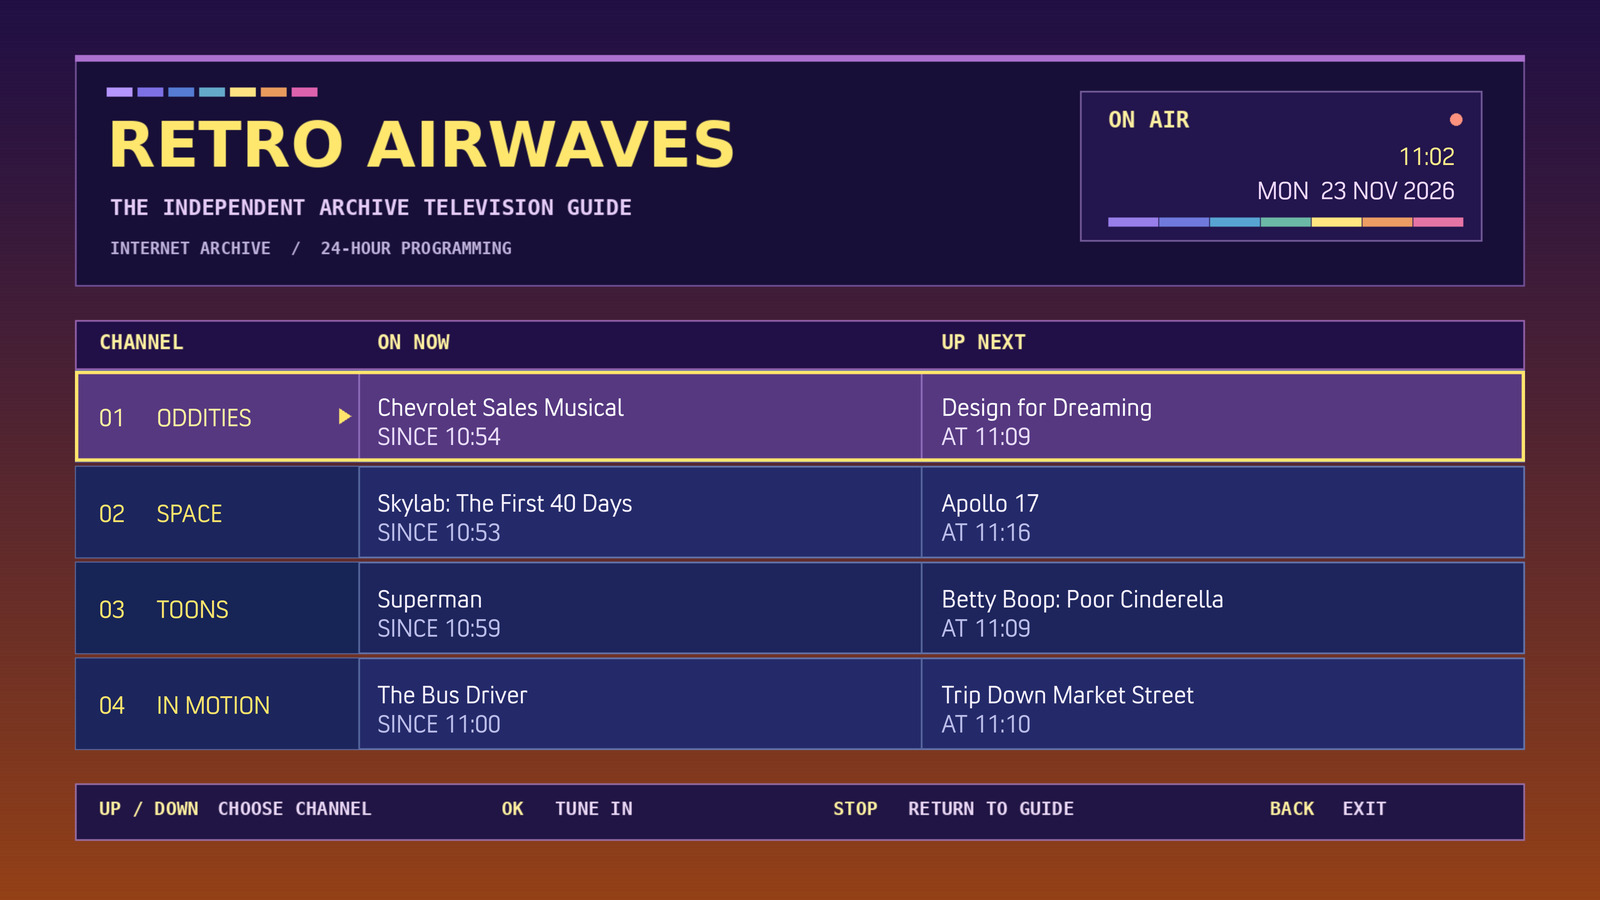
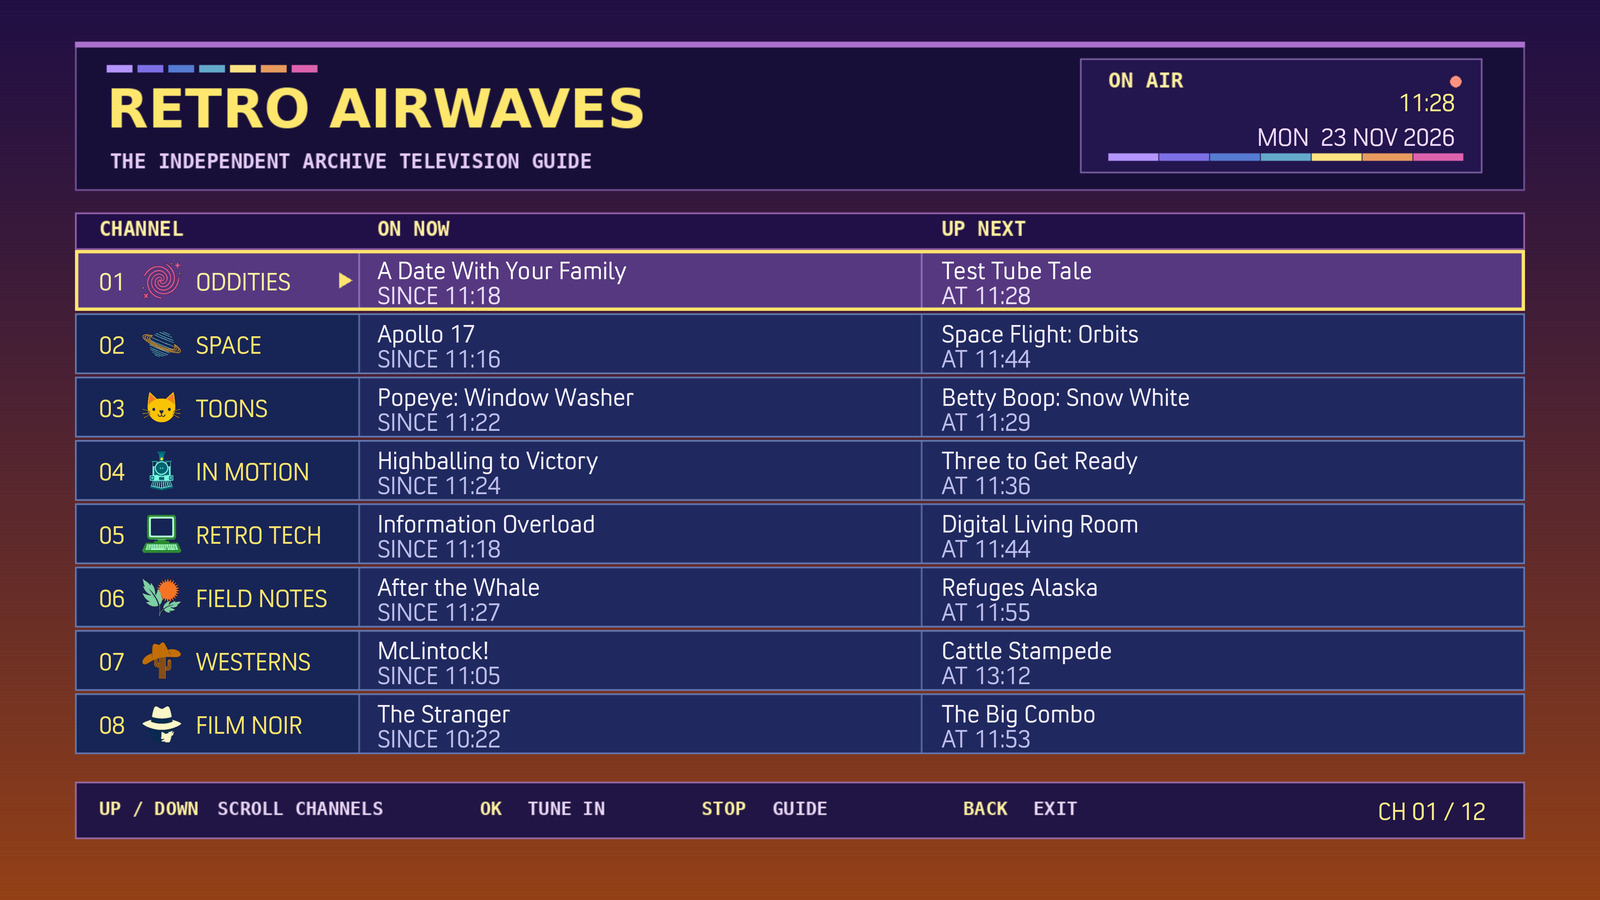
Release Retro Airwaves v1.2.0 for Kodi
- Add twelve scheduled channels and Wikimedia Commons streams.
- Fit eight rows in the guide, with original H3-generated badges and scroll screenshots.

diff --git a/script.retro.airwaves/resources/guide.py b/script.retro.airwaves/resources/guide.py
@@ -9,13 +9,23 @@ from resources.schedule import tune
 CHANNELS = 9000
 BACK_ACTIONS = {9, 10, 92}  # Previous menu, parent directory, navigation back.
 ADDON_DIR = str(Path(__file__).resolve().parents[1])
+ICON_DIR = Path(ADDON_DIR) / 'resources/skins/default/media/channels'
 
 
 class Guide(xbmcgui.WindowXML):
     def onInit(self):
         self.window_id = xbmcgui.getCurrentWindowId()
         self.rows = self.getControl(CHANNELS)
+        self.entries = []
+        self.starts = [None] * len(self.channels)
+        for number, channel in enumerate(self.channels, 1):
+            item = xbmcgui.ListItem(label=channel['name'].upper())
+            item.setProperty('Number', f'{number:02d}')
+            item.setArt({'thumb': str(ICON_DIR / f"{channel['icon']}.png")})
+            self.entries.append(item)
         self.refresh()
+        self.rows.reset()
+        self.rows.addItems(self.entries)
         self.setFocusId(CHANNELS)
         self.rows.selectItem(self.previous)
         self.ready = True
@@ -25,23 +35,16 @@ class Guide(xbmcgui.WindowXML):
         stamp = datetime.fromtimestamp(now)
         self.getControl(9010).setLabel(stamp.strftime('%H:%M'))
         self.getControl(9011).setLabel(stamp.strftime('%a  %d %b %Y').upper())
-        slots = [tune(channel, now) for channel in self.channels]
-        starts = tuple(round(slot.starts_at, 3) for slot in slots)
-        if starts == self.starts:
-            return
-        selected = self.rows.getSelectedPosition() if self.starts else self.previous
-        self.starts = starts
-        entries = []
-        for number, (channel, slot) in enumerate(zip(self.channels, slots), 1):
-            item = xbmcgui.ListItem(label=channel['name'].upper(), label2=slot.program['title'], offscreen=True)
-            item.setProperty('Number', f'{number:02d}')
+        for index, (channel, item) in enumerate(zip(self.channels, self.entries)):
+            slot = tune(channel, now)
+            start = round(slot.starts_at, 3)
+            if start == self.starts[index]:
+                continue
+            self.starts[index] = start
+            item.setLabel2(slot.program['title'])
             item.setProperty('Since', datetime.fromtimestamp(slot.starts_at).strftime('%H:%M'))
             item.setProperty('UpNext', slot.next_program['title'])
             item.setProperty('NextAt', datetime.fromtimestamp(slot.ends_at).strftime('%H:%M'))
-            entries.append(item)
-        self.rows.reset()
-        self.rows.addItems(entries)
-        self.rows.selectItem(max(0, selected))
 
     def onClick(self, control_id):
         if control_id == CHANNELS:
@@ -60,7 +63,6 @@ def select_channel(channels, previous, monitor):
     window = Guide('Airwaves.xml', ADDON_DIR, 'default', '1080i')
     window.channels = channels
     window.previous = previous
-    window.starts = ()
     window.ready = False
     window.selected = None
     window.show()

diff --git a/check_schedule.py b/check_schedule.py
@@ -25,6 +25,14 @@ def main():
             assert just_after.program == next_program and abs(just_after.starts_at - cut) < 0.001
             anchor = cut
         assert tune(channel, EPOCH - channel['phase'] - 0.25).program == programs[-1]
+    urls = [media_url(p) for c in channels for p in c['programs']]
+    assert len(set(urls)) == len(urls), 'A stream is scheduled more than once'
+    for channel in channels:
+        icon = addon / 'resources/skins/default/media/channels' / f"{channel['icon']}.png"
+        assert icon.is_file() and icon.stat().st_size <= 4096, icon
+        for program in channel['programs']:
+            if 'url' in program:
+                assert media_url(program).startswith('https://') and program['source_page'].startswith('https://')
     assert media_url({'item': 'old films', 'file': 'clip #1.mp4'}) == 'https://archive.org/download/old%20films/clip%20%231.mp4'
     print(f'Schedule cutovers, wraparound and stream URLs: {len(channels)} channels passed')
 

diff --git a/script.retro.airwaves/default.py b/script.retro.airwaves/default.py
@@ -36,7 +36,9 @@ def play_channel(channel, monitor):
         item = xbmcgui.ListItem(label=program['title'], path=url, offscreen=True)
         tag = item.getVideoInfoTag()
         tag.setTitle(program['title'])
-        tag.setPlot(f"{channel['name']} · Internet Archive: {program['item']}")
+        credit = program.get('credit', channel.get('credit', 'Internet Archive'))
+        source = program['source_page'] if 'url' in program else f"https://archive.org/details/{program['item']}"
+        tag.setPlot(f"{channel['name']} · {credit}\n{source}")
         item.setProperty('StartOffset', f'{now - slot.starts_at:.3f}')
         player.started = False
         player.outcome = None

diff --git a/script.retro.airwaves/resources/schedule.py b/script.retro.airwaves/resources/schedule.py
@@ -24,6 +24,8 @@ def tune(channel, now):
 
 
 def media_url(program):
+    if 'url' in program:
+        return program['url']
     item = quote(program['item'], safe='')
     filename = quote(program['file'], safe='')
     return f'https://archive.org/download/{item}/{filename}'

diff --git a/README.md b/README.md
@@ -1,20 +1,24 @@
 # Retro Airwaves
 
-Retro Airwaves is a Kodi-native alternative to [Spelunkr](https://spelunkr.tv/app). It runs four continuously scheduled channels of archival films: Oddities, Space, Toons, and In Motion. It uses its own schedule and catalog; it does not call Spelunkr, require an account, or run a server.
+Retro Airwaves is a Kodi-native alternative to [Spelunkr](https://spelunkr.tv/app). It has 12 independently scheduled channels of archival film and television. It does not call Spelunkr, require an account, or run a server.
 
-![Retro Airwaves in Kodi: a purple-and-blue cable guide with four numbered channels, current programs, and upcoming times](screenshots/guide.jpg)
+![Retro Airwaves in Kodi: eight visible rows in a purple-and-blue cable guide with channel badges, current programs, and upcoming times](screenshots/guide.jpg)
+
+[See the guide scrolled to channels 5–12](screenshots/guide-scrolled.jpg).
 
 ## Install on Kodi
 
-1. Download `script.retro.airwaves-1.1.0.zip` from the [latest release](../../releases/latest). Use the add-on ZIP, not GitHub's automatic source archive.
+1. Download the `script.retro.airwaves-*.zip` add-on package from the [latest release](../../releases/latest). Do not use GitHub's automatic source archive.
 2. In Kodi, open **Add-ons → Add-on browser → Install from zip file** and pick the downloaded ZIP. If Kodi requires **Unknown sources**, enable it only long enough to install the ZIP.
 3. Open **Retro Airwaves** from **Program add-ons**. If your skin supports Home shortcuts, add `RunAddon(script.retro.airwaves)`.
 
-Tested on Kodi 20.5 (Nexus). The add-on uses Kodi's player to stream from the Internet Archive. No account, separate server, or IPTV configuration is required. The ZIP does not change your skin or existing Live TV setup.
+Tested on Kodi 20.5 (Nexus). The add-on uses Kodi's player to stream directly from the Internet Archive and Wikimedia Commons. No account, separate server, or IPTV configuration is required. The ZIP does not change your skin or existing Live TV setup.
 
 ## Use the guide
 
-Use **Up/Down** to select a channel, **OK** to tune in at the scheduled point, and **Stop** to return to the guide. **Back** closes the guide. The four channels loop independently and show their current and upcoming programs in local time.
+The guide shows eight channels at a time. Use **Up/Down** to scroll the full lineup, **OK** to tune in at the scheduled point, and **Stop** to return to the guide. **Back** closes the guide. Each channel shows its current and upcoming programs in local time.
+
+The lineup includes Oddities, Space, Toons, In Motion, Retro Tech, Field Notes, Westerns, Film Noir, Sci-Fi, Silent Film (comedy), Newsreels, and Classroom.
 
 ![A frame from the 1941 Superman cartoon playing fullscreen in Kodi](screenshots/playback.jpg)
 
@@ -22,13 +26,13 @@ Playback example: [Superman (1941)](https://archive.org/details/superman_1941), 
 
 ## Develop
 
-The lineup is in `script.retro.airwaves/resources/channels.json`. Each item links to its rights and metadata at `https://archive.org/details/<item>`. Program durations are in seconds from the exact MP4 in each record. Editing the durations or order changes the UTC schedule for that channel.
+The lineup is in `script.retro.airwaves/resources/channels.json`. For Internet Archive entries, see `https://archive.org/details/<item>` for the source and rights information. Direct streams instead carry `url` and `source_page` fields. Use the exact stream duration in seconds; editing durations or order changes the UTC schedule for that channel. Channel badges are 96×96 indexed PNGs under `resources/skins/default/media/channels/`.
 
 Run `python3 -B check_schedule.py` to check cutovers, wraparound, and URL encoding. When packaging, put the `script.retro.airwaves/` folder at the ZIP root and include a copy of `LICENSE` in that folder.
 
 ## Credits
 
-Inspired by [Spelunkr](https://spelunkr.tv/) and vintage cable guides. The app, artwork, lineup, and schedule are independent; it uses no Spelunkr code or assets. Films stream from the Internet Archive and are not bundled. Rights information for each film is on its Archive item page.
+Inspired by [Spelunkr](https://spelunkr.tv/) and vintage cable guides. Selected titles overlap with Spelunkr's public listings, but the artwork, schedule, and app are independent. Retro Tech streams unmodified [Computer Chronicles](https://archive.org/details/computerchronicles) episodes under their item-level [CC BY-NC-ND 2.0](https://creativecommons.org/licenses/by-nc-nd/2.0/) licenses. No footage is bundled; see the source listing for each film.
 
 Original code and guide artwork are provided under the [MIT License](LICENSE). The playback screenshot shows third-party archival footage and is not covered by that license.
 
